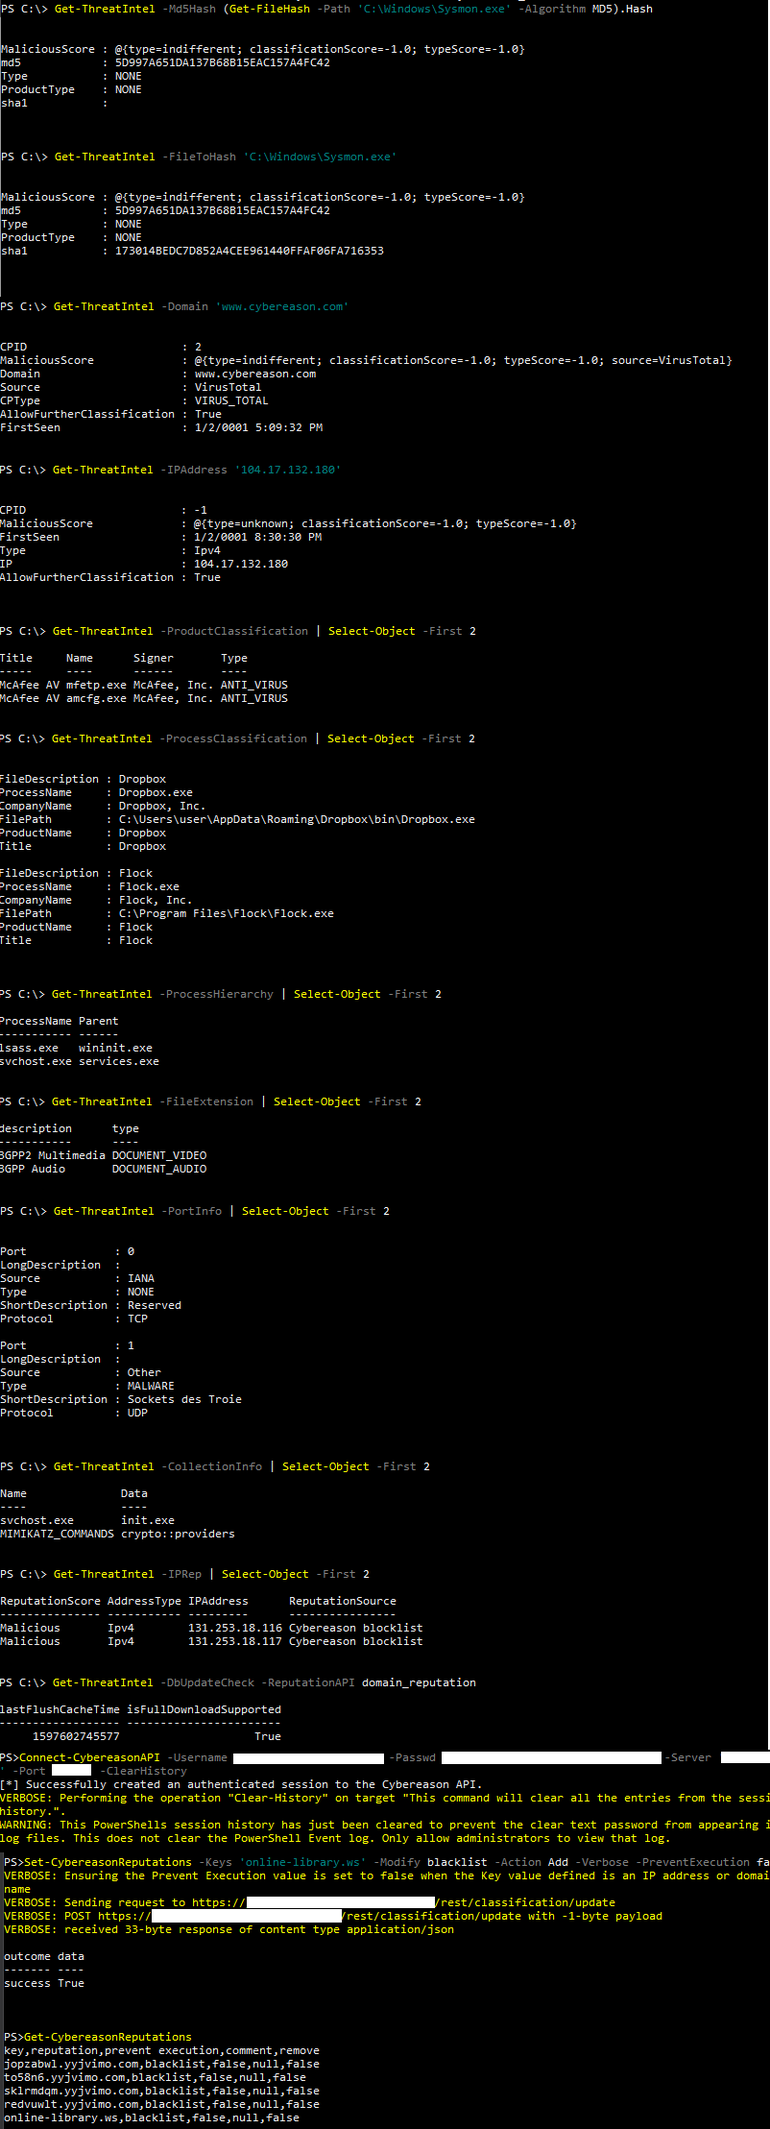
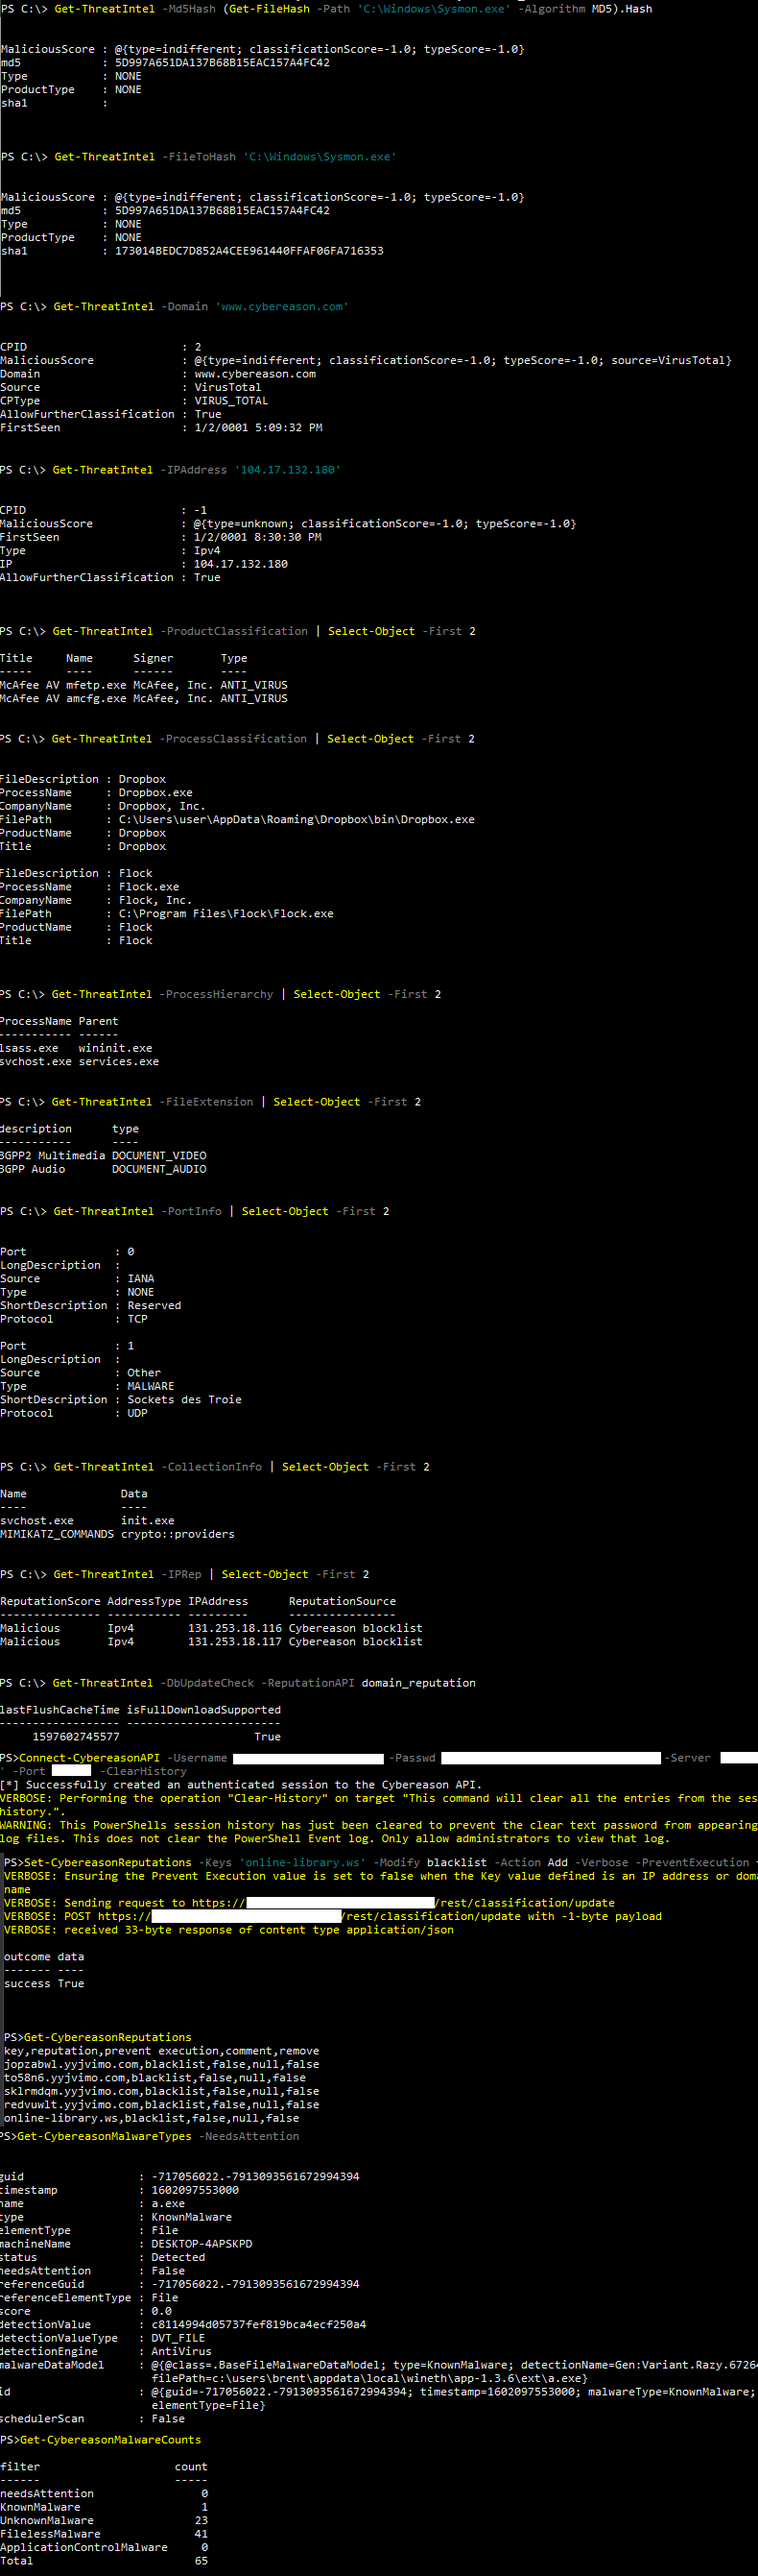
Malware cmdlets added
Added 2 more cmdlets that get information on malware in an environment

diff --git a/README.md b/README.md
@@ -54,6 +54,28 @@ Get-CybereasonThreatIntel -MD5Hash FFFFFFFFFFFFFFFFFFFFFFFFFFFFFFFF
 Get-CybereasonThreatIntel -DbUpdateCheck -ReputationAPI product_classification
 ```
 
+### Respond To Malware
+By using the API you can retrieve details on malware. This enables you to address and investigate malware to prevent additional damage.
+- Get a count of all Malware per type
+- Query a specific type of Malware <br>
+[Documentation for Respond to Malware](https://nest.cybereason.com/documentation/api-documentation/all-versions/respond-malware)
+__Get-CybereasonMalwareCount__: This cmdlet is used to return all of the Malware counts on Cybereason
+```powershell
+# This example returns the count for all Malware types in Cybereason
+Get-CybereasonMalwareCount
+```
+__Get-CybereasonMalwareTypes__: This cmdlet is used to query Malware from a start date, all malware, all malware that needs attention, or all malware with a status of done.
+```powershell
+Get-CybereasonMalwareTypes -NeedsAttention -Sort DESC -Limit 100
+Get-CybereasonMalwareTypes -AllKnownMalware -Sort ASC -Limit 25
+Get-CybereasonMalwareTypes -UnknownMalware -Limit 40
+Get-CybereasonMalwareTypes -FilelessMalware -Sort ASC
+Get-CybereasonMalwareTypes -ApplicationControlMalware
+Get-CybereasonMalwareTypes -RansomwareMalware -Limit 10
+Get-CybereasonMalwareTypes -MalwareAfter (Get-Date).AddDays(-2).Ticks
+Get-CybereasonMalwareTypes -CompletedKnownMalware
+```
+
 ### Remediate Items
  By using the API you can take remediation actions on Malops to limit or prevent additional damage.
 - Remediate an item
@@ -149,12 +171,6 @@ By using the API you can retrieve Malops or isolate machines involved in a speci
 - Delete a Malop label
 - Update Malop labels <br>
 [Documentation for Respond to Malops](https://nest.cybereason.com/documentation/api-documentation/all-versions/respond-malops)
-
-### Respond To Malware
-By using the API you can retrieve details on malware. This enables you to address and investigate malware to prevent additional damage.
-- Get a count of all Malware per type
-- Query a specific type of Malware <br>
-[Documentation for Respond to Malware](https://nest.cybereason.com/documentation/api-documentation/all-versions/respond-malware)
 
 ### Add Custom Detection Rule
 Custom detection rules created via API should be created only after adequate research regarding precision and coverage has been completed. Creating a custom detection rule that is not specific enough can have detrimental impact on retention and overall performance of the environment.
